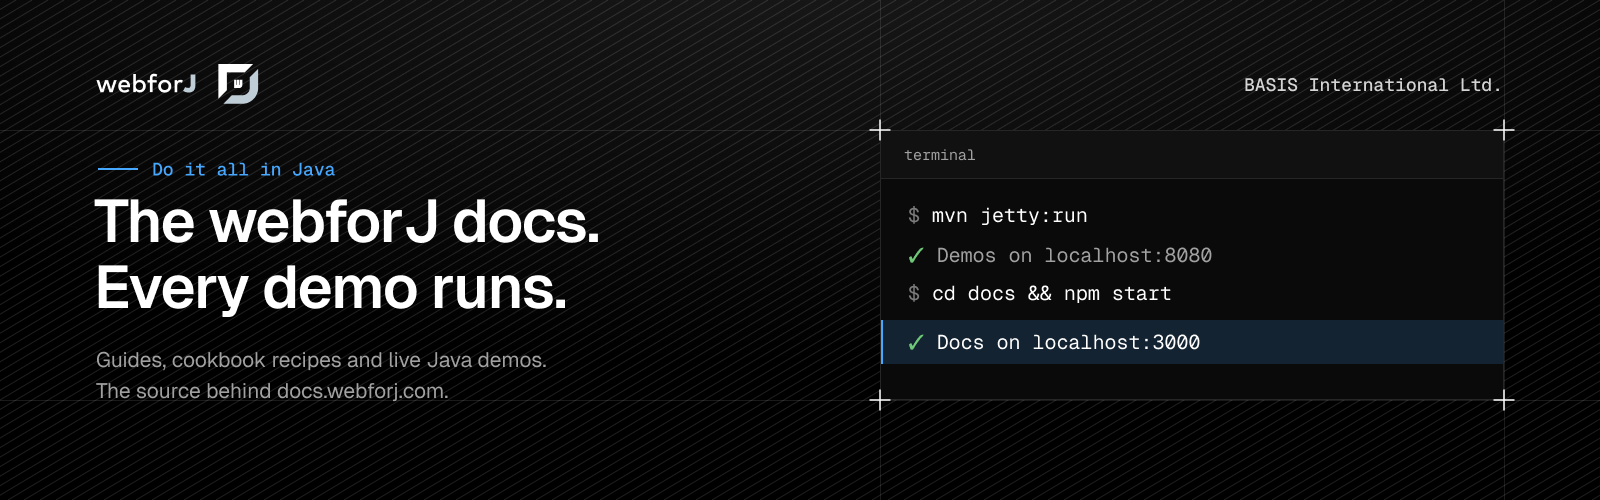
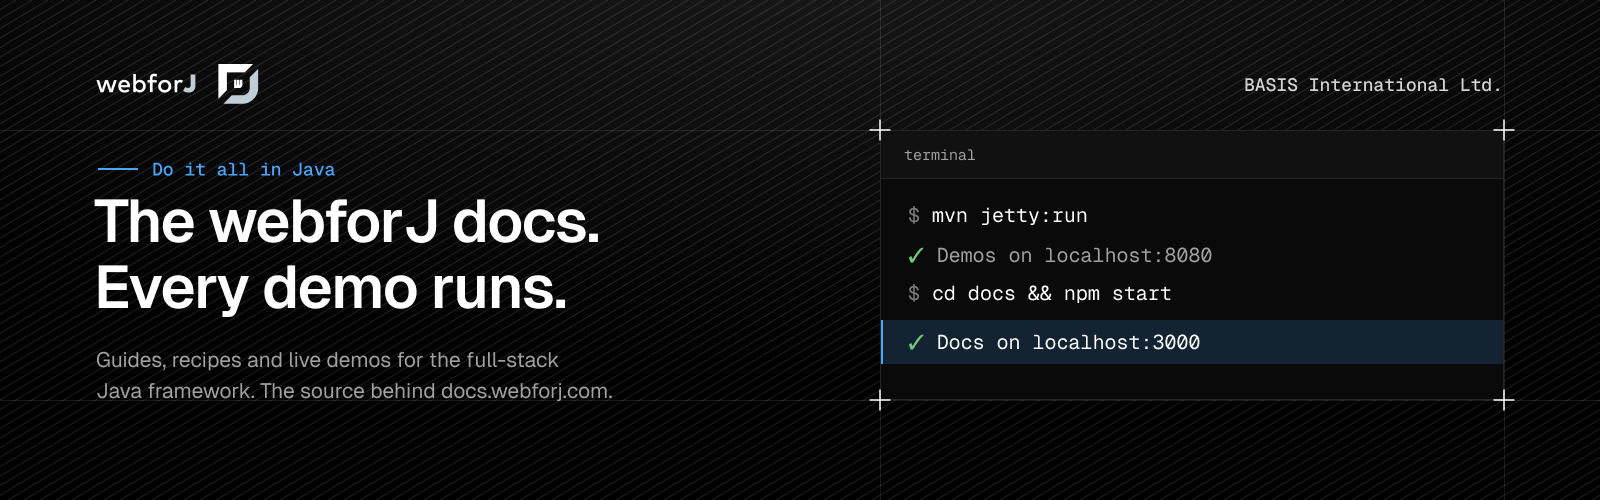
docs: name the full-stack Java framework in the repo README and cover

Changed region(s): [[0.0625, 0.69, 0.375, 0.81]]

diff --git a/README.md b/README.md
@@ -1,10 +1,10 @@
 <div align="center">
 
-![webforJ documentation: guides, cookbook recipes and live Java demos](.github/assets/readme-cover.png)
+![webforJ documentation: guides, cookbook recipes and live Java demos for the full-stack Java framework](.github/assets/readme-cover.png)
 
 **The source of [docs.webforj.com](https://docs.webforj.com).**
 
-Every guide, blog post and cookbook recipe for webforJ, plus the live Java demos embedded in the pages. Each demo is a real webforJ app, so what you read is code that runs.
+Every guide, blog post and cookbook recipe for webforJ, the full-stack Java framework, plus the live Java demos embedded in the pages. Each demo is a real webforJ app, so what you read is code that runs.
 
 [![Test WAR Build](https://github.com/webforj/webforj-documentation/actions/workflows/test-build.yml/badge.svg)](https://github.com/webforj/webforj-documentation/actions/workflows/test-build.yml)
 [![License: MIT](https://img.shields.io/badge/License-MIT-022495)](LICENSE)
